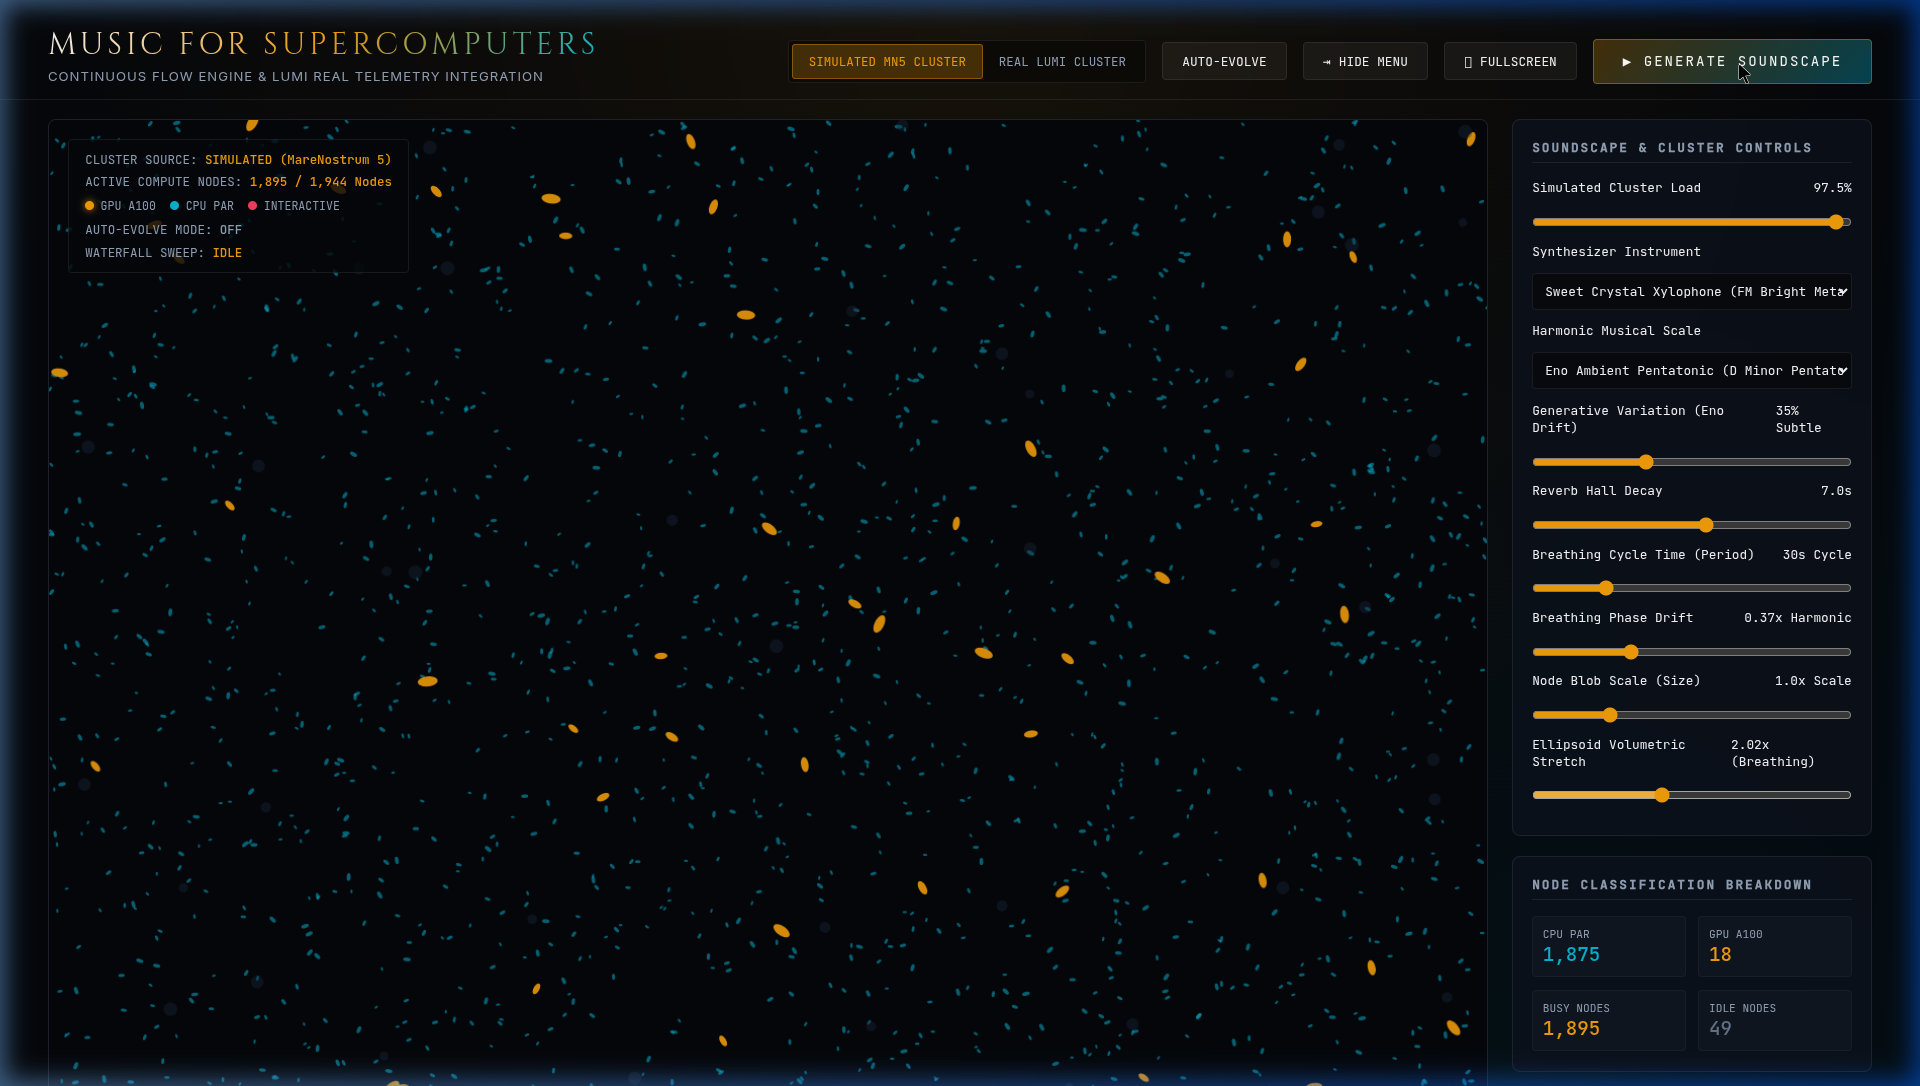
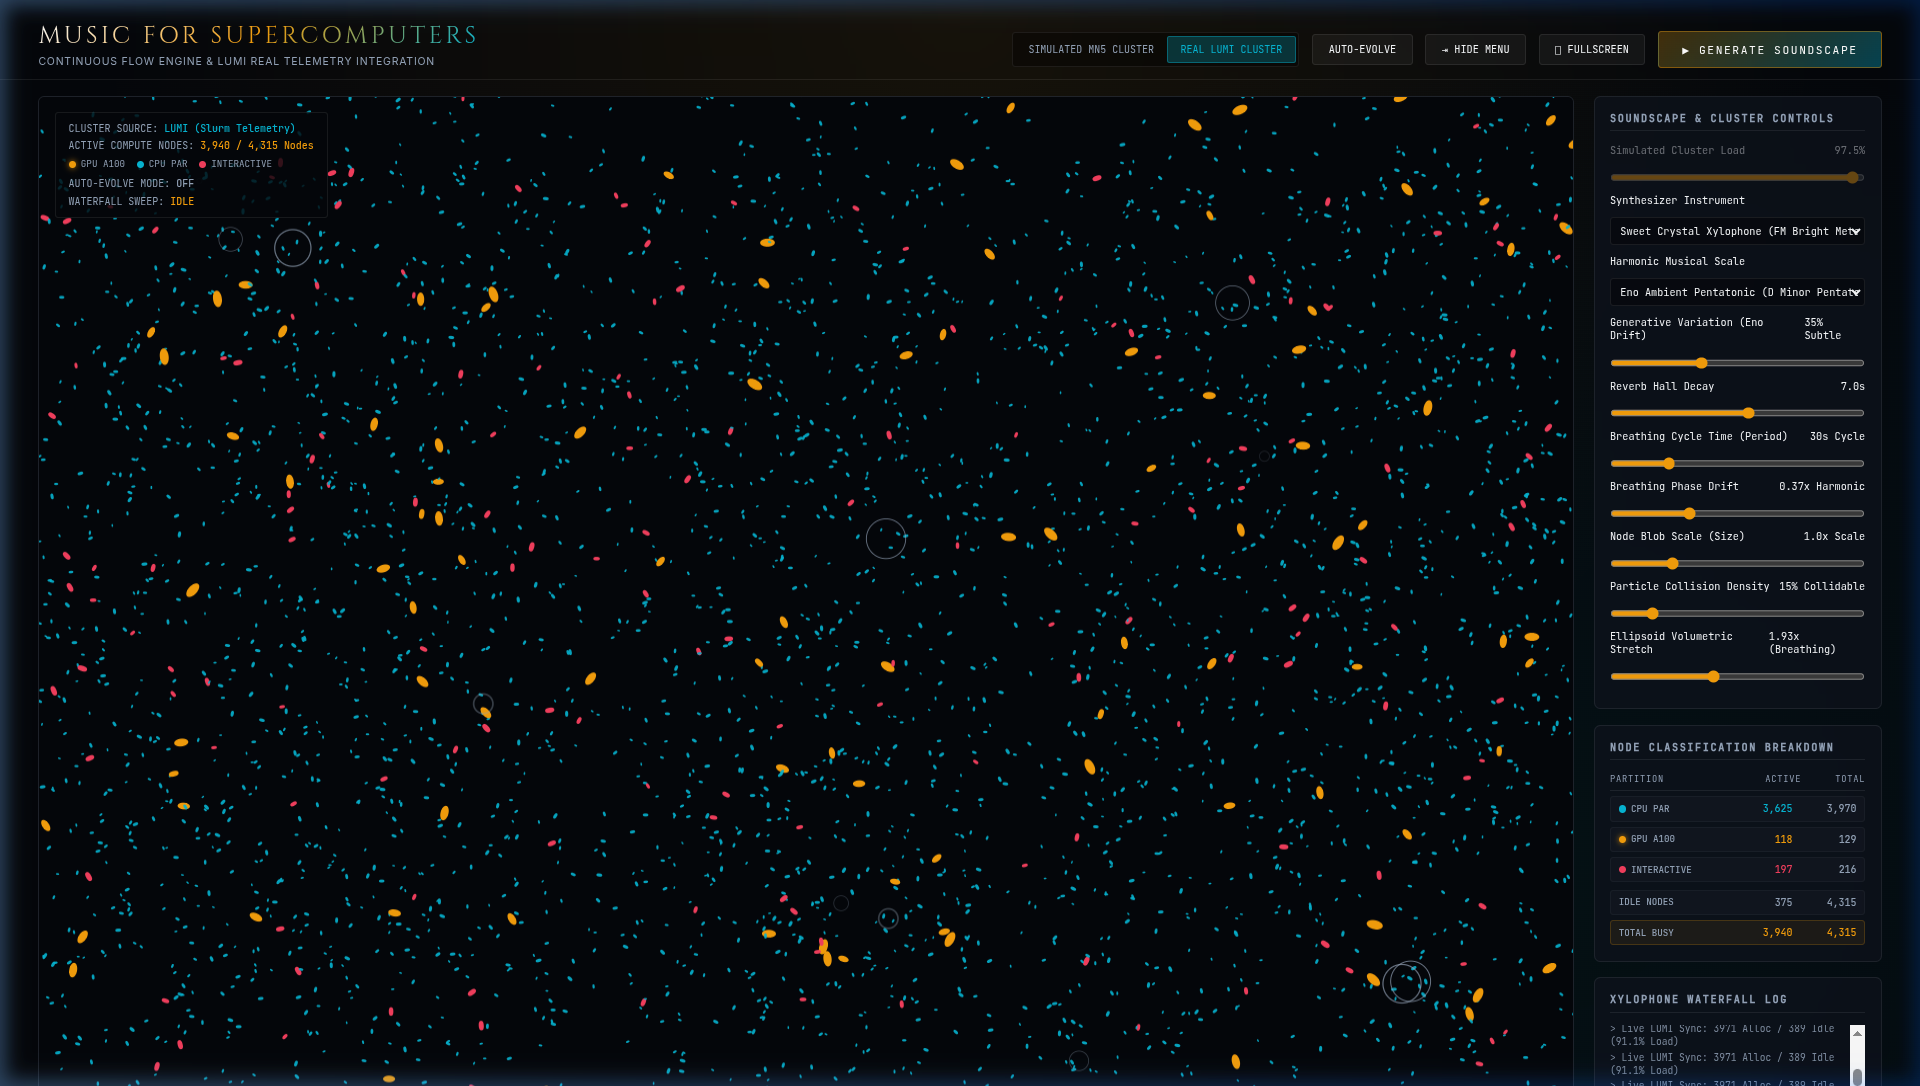
Docs: update README.md and screenshot.png for 2-column breakdown UI

diff --git a/README.md b/README.md
@@ -17,6 +17,8 @@
 - ** Dual-Mode Telemetry Ingestion**:
   - **Simulated MN5 Cluster Mode**: Interactive simulation model representing MareNostrum 5 (1,944 nodes).
   - **Real LUMI Cluster Mode**: Live Slurm telemetry parser fetching active vs. idle nodes directly from `scratch/cluster_node_status.txt` (4,315+ nodes).
+- ** 2-Column Tabular Node Classification Breakdown**:
+  - Live active vs. total count tracking per compute partition (CPU PAR, GPU A100, Interactive, Idle) formatted in dedicated colored columns matching particle colors.
 - ** Crash-Proof OffscreenCanvas Web Worker**:
   - Offloads 60 FPS particle trajectory calculations, volume-conserving ellipsoid stretch transformations, and canvas rendering to an isolated Web Worker thread with persistent node pool allocation and instant real-time density filtering (`busyAlpha`).
 - ** Proportional Virtual Xylophone Waterfall**:
@@ -68,6 +70,13 @@ This automatically starts a local web server at `http://127.0.0.1:8080/` and ope
 To feed live Slurm cluster status into the synthesizer:
 1. Run your background telemetry fetch script (`scratch/check_nodes.sh` or equivalent SSH loop) that periodically updates `scratch/cluster_node_status.txt`.
 2. In the application UI, click the **`REAL LUMI CLUSTER`** button in the header. The application will auto-poll `scratch/cluster_node_status.txt` every 5 seconds.
+
+---
+
+## 🌿 Branches
+
+- **`modular`** (default): Structured modular architecture separated into `code/audio.js`, `code/music.js`, `code/telemetry.js`, `code/ui.js`, `code/worker.js`, and `code/style.css`.
+- **`monolithic`**: Single-file version with all CSS and JavaScript contained within `index.html`.
 
 ---
 
